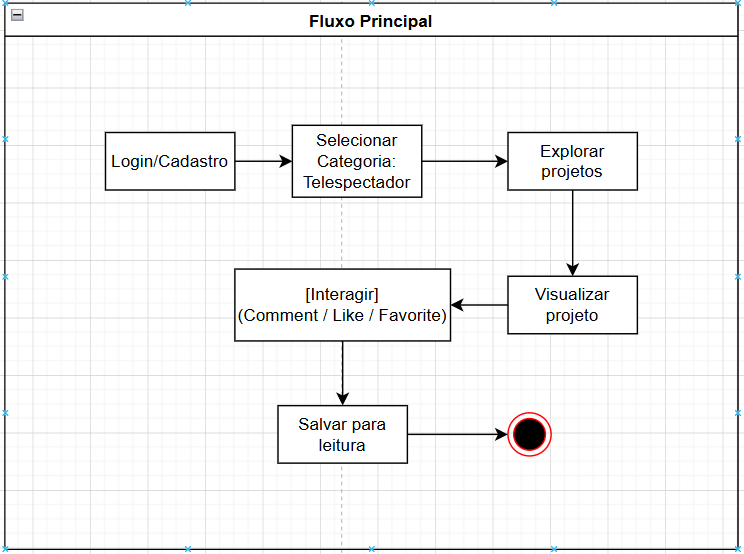
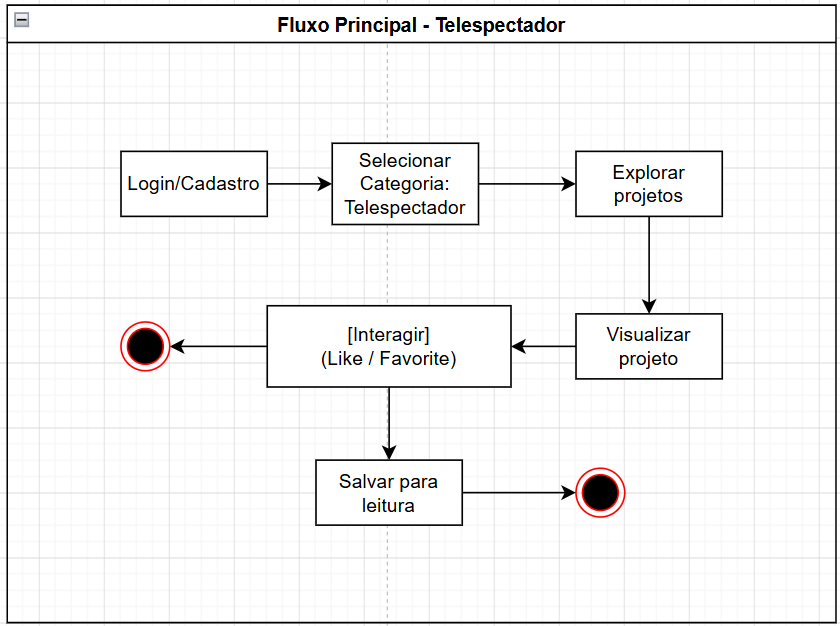
finalizado sessão 5

Changed region(s): [[0.1237, 0.2148, 0.8656, 0.8592], [0.0, 0.0, 1.0, 1.0]]

diff --git a/README.md b/README.md
@@ -977,15 +977,117 @@ Controller → Service → Repository → Banco de Dados
 
 ## 5.2 Modelo de Dados
 
-Apresente:
+Esta seção apresenta a estrutura de persistência utilizada pelo sistema, incluindo os modelos relacionais e não relacionais responsáveis pelo armazenamento das informações da plataforma.
 
-- DER (diagrama entidade relacionamento)
-- esquema relacional
-- modelo de documentos (NoSQL)
-
-Inclua **diagramas do modelo de dados**.
+O sistema utiliza uma arquitetura híbrida de dados, combinando bancos relacionais e NoSQL para atender diferentes necessidades da aplicação.
 
 ---
+
+# Modelo Relacional (PostgreSQL)
+
+O PostgreSQL será responsável pelo armazenamento de dados estruturados da plataforma.
+
+Entre os principais dados persistidos estão:
+
+- usuários
+- autenticação
+- curtidas
+- favoritos
+- permissões
+- metadados dos projetos
+
+---
+
+## Principais Entidades
+
+| Entidade | Responsabilidade |
+|---|---|
+| usuarios | armazenamento de usuários |
+| projetos | informações gerais dos projetos |
+| imagens  | armazenamento de imagens |
+
+---
+
+## Relacionamentos
+
+- um usuário pode possuir vários projetos
+- um usuário pode curtir vários projetos
+- um usuário pode salvar vários projetos
+- um usuário pode denunciar projetos
+- um projeto pode possuir varias imagens
+
+---
+![Tabelas relacionais](Screenshots/tabela.png)
+---
+# Modelo NoSQL (MongoDB)
+
+O MongoDB será responsável pelo armazenamento do estado dinâmico do editor visual e da estrutura dos projetos interativos.
+
+A escolha do MongoDB ocorreu devido à flexibilidade no armazenamento de estruturas complexas e variáveis.
+
+---
+
+## Estruturas Armazenadas
+
+- telas
+- conexões
+- elementos visuais
+- posições
+- interações
+- estados do editor
+
+---
+
+## Modelo de Documento
+
+```json
+{
+  "projectId": "123",
+  "screens": [
+    {
+      "id": "screen-01",
+      "title": "Introdução",
+      "elements": [
+        {
+          "type": "text",
+          "content": "Bem-vindo à história"
+        },
+        {
+          "type": "image",
+          "url": "image.png"
+        }
+      ],
+      "connections": [
+        {
+          "target": "screen-02",
+          "action": "button-click"
+        }
+      ]
+    }
+  ]
+}
+```
+---
+
+# Armazenamento de Imagens
+
+As imagens utilizadas nos projetos serão armazenadas utilizando Cloudinary.
+
+O sistema armazenará apenas:
+
+- URLs públicas
+- identificadores das imagens
+- metadados necessários
+
+---
+
+# Objetivos do Modelo de Dados
+
+- organizar persistência da aplicação
+- separar dados relacionais e dinâmicos
+- facilitar escalabilidade futura
+- melhorar organização arquitetural
+- simplificar manutenção do sistema
 
 ## 5.3 Principais Componentes
 